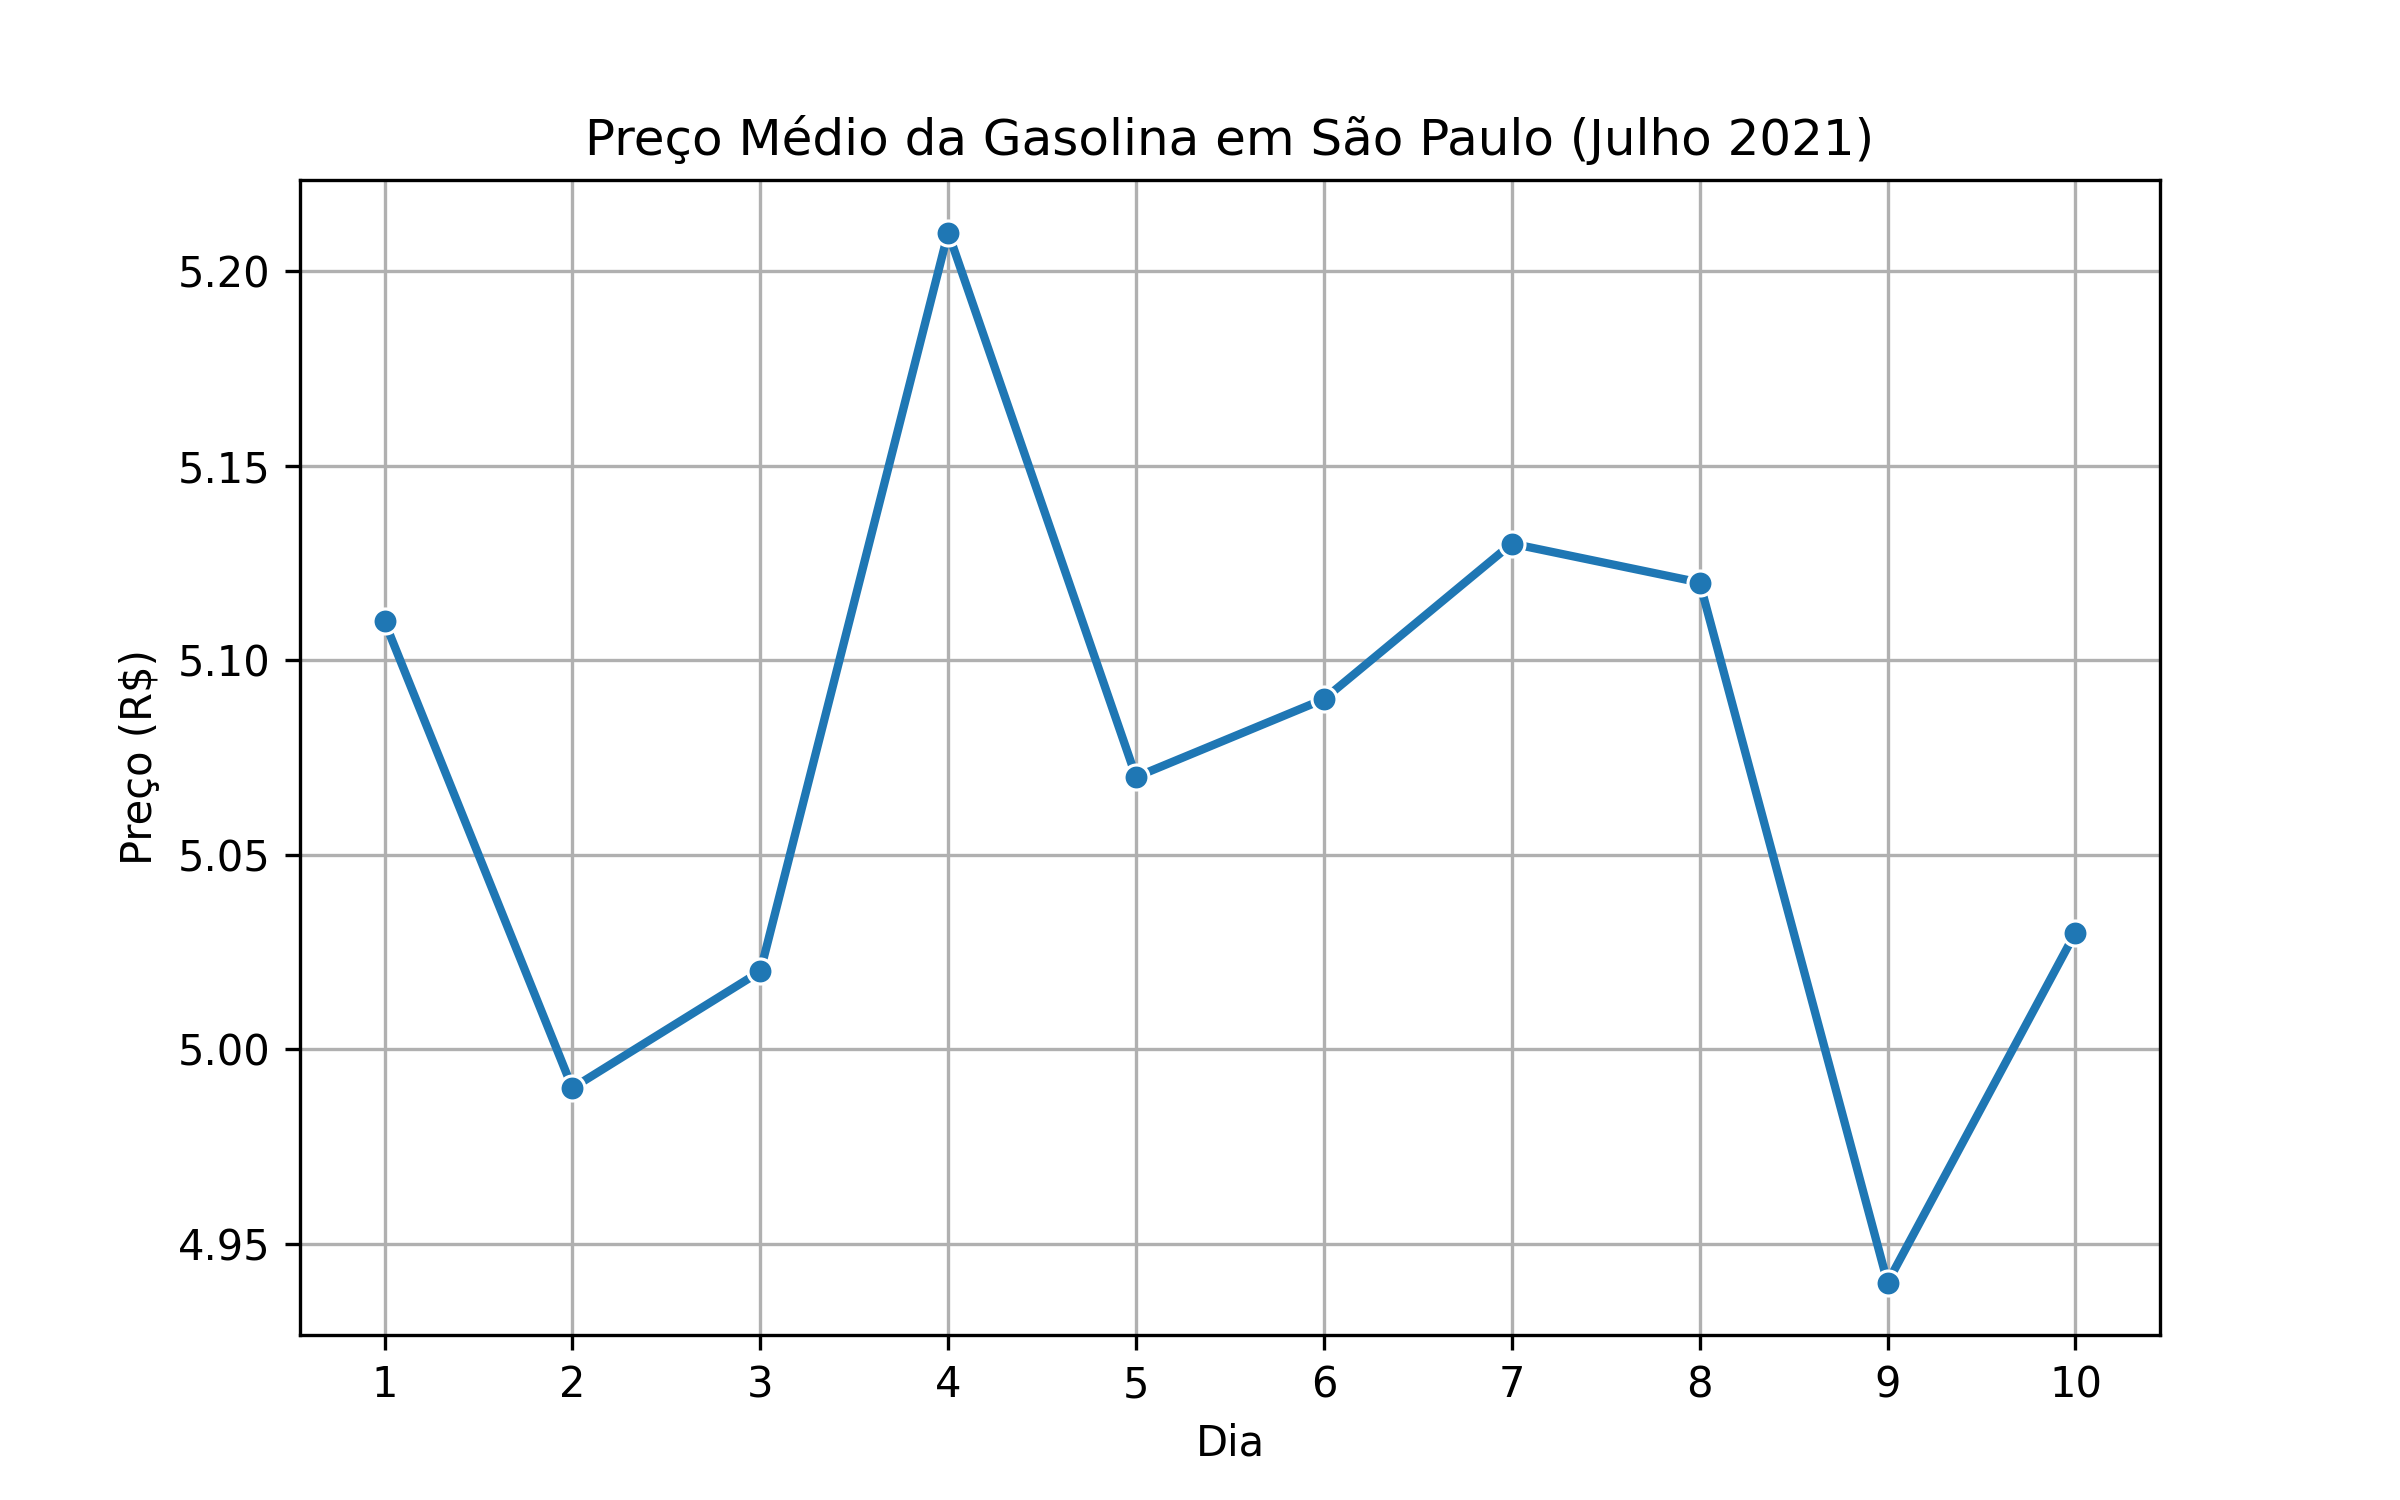
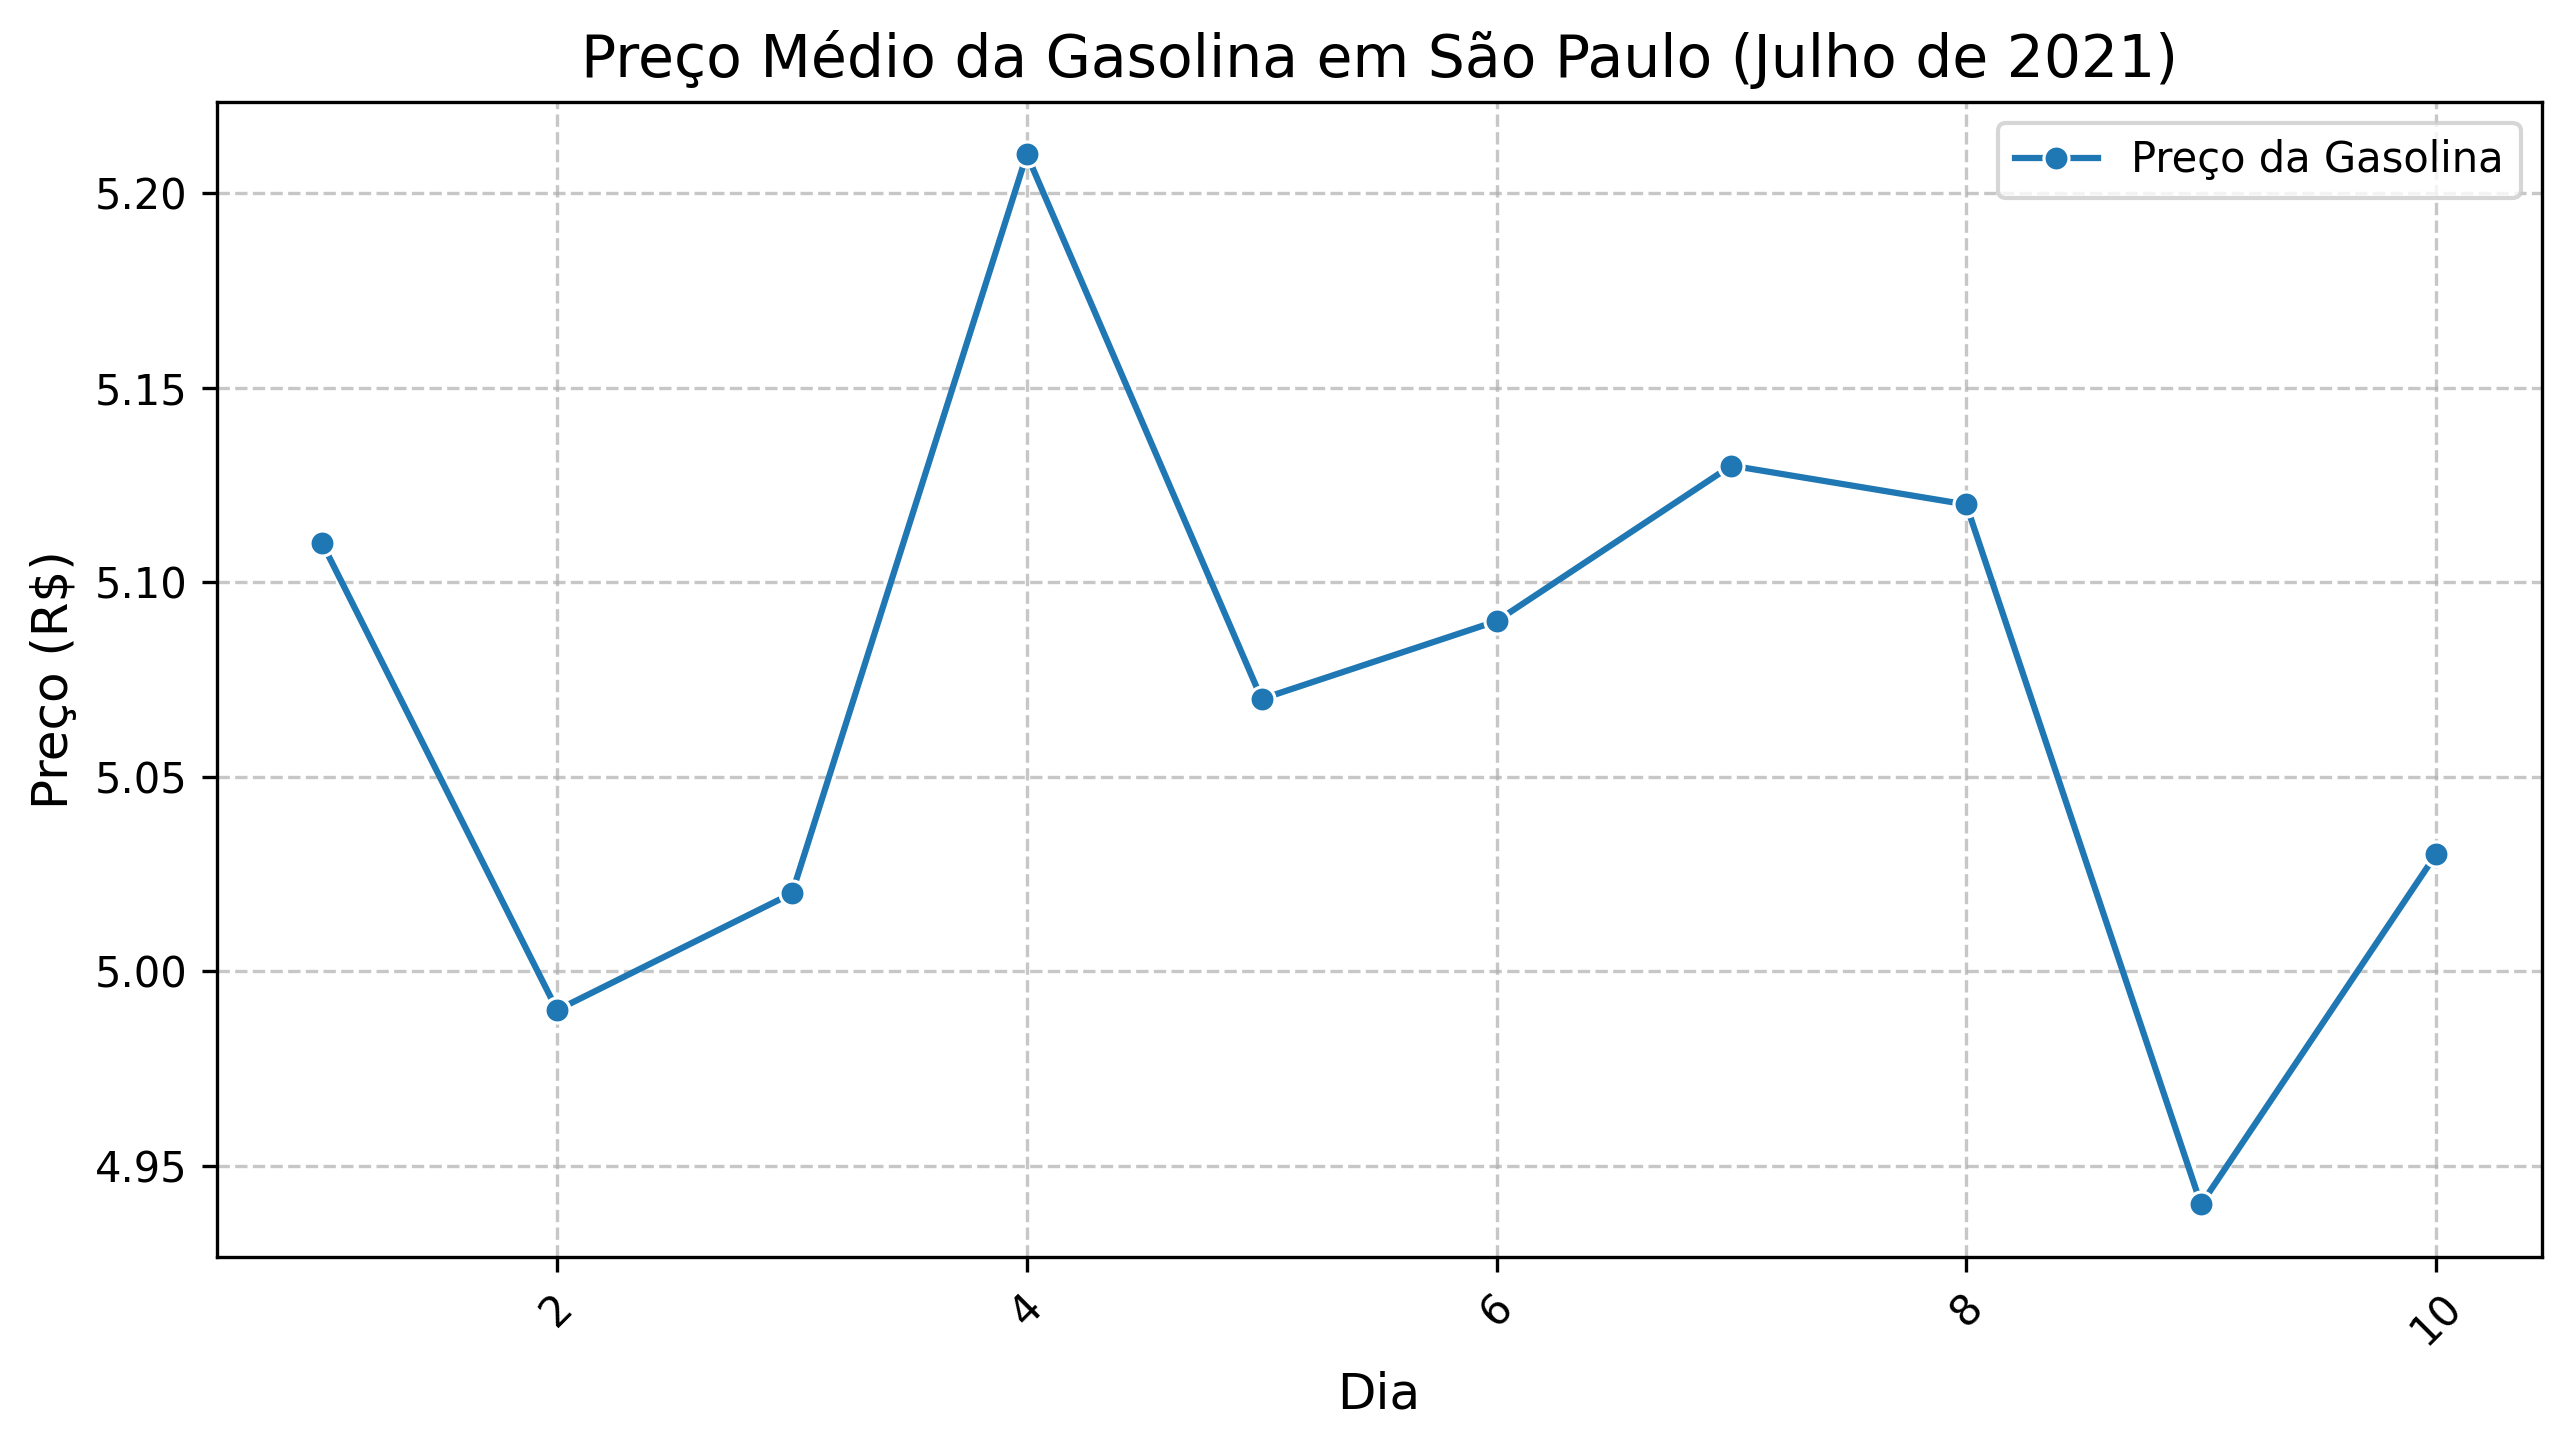
Adiciona arquivos gasolina.csv, gasolina.py e gasolina.png

diff --git a/gasolina.py b/gasolina.py
@@ -1,4 +1,4 @@
-(import pandas as pd
+import pandas as pd
 import seaborn as sns
 import matplotlib.pyplot as plt
 
@@ -6,18 +6,17 @@ import matplotlib.pyplot as plt
 df = pd.read_csv("gasolina.csv")
 
 # Criar o gráfico
-plt.figure(figsize=(8, 5))
-sns.lineplot(data=df, x="dia", y="venda", marker="o", linewidth=2)
+plt.figure(figsize=(10, 5))
+sns.lineplot(data=df, x="dia", y="venda", marker="o", label="Preço da Gasolina")
 
-# Configurar o gráfico
-plt.title("Preço Médio da Gasolina em São Paulo (Julho 2021)")
-plt.xlabel("Dia")
-plt.ylabel("Preço (R$)")
-plt.xticks(df["dia"])
-plt.grid(True)
+# Personalizar o gráfico
+plt.title("Preço Médio da Gasolina em São Paulo (Julho de 2021)", fontsize=14)
+plt.xlabel("Dia", fontsize=12)
+plt.ylabel("Preço (R$)", fontsize=12)
+plt.xticks(rotation=45)
+plt.legend()
+plt.grid(True, linestyle="--", alpha=0.7)
 
 # Salvar o gráfico
-plt.savefig("gasolina.png", dpi=300)
-
-# Exibir o gráfico
-plt.show())
+plt.savefig("gasolina.png", dpi=300, bbox_inches="tight")
+plt.show()
